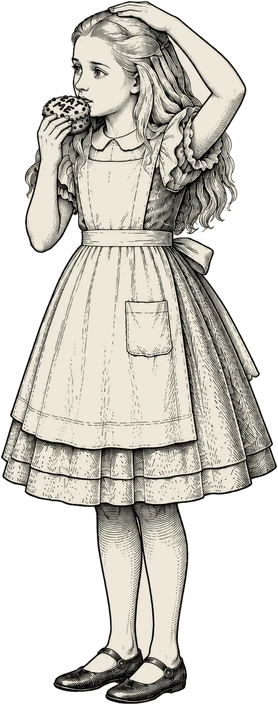
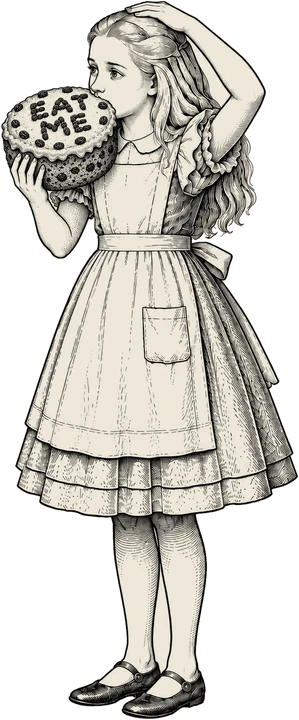
Chapter I: Alice keeps her falling pose with the jar in her hand; new eating pose (EAT ME the right way round); smaller glass box and cake to match; prompts for the shaft side walls, the hall wall and the passage wall
Claude-Session: https://claude.ai/code/session_01XCrTmcLSNBEvemRhk5i2MQ

diff --git a/src/scenes/hall.js b/src/scenes/hall.js
@@ -35,11 +35,11 @@ export const hall = {
     // The AI drawings (tools/small_props.py): the bottle, the open glass box with the cake in it.
     const flat = (name, w) => paperFlat(ai[name].tex, w, w / ai[name].aspect);
     const bottle = flat('props/bottle', 0.13);
-    // "a little glass box"; Alice is ten inches high here. See-through, so no shadow card
-    // behind it (that showed as a second box).
-    const box = paperFlat(ai['props/box'].tex, 0.15, 0.15 / ai['props/box'].aspect, { edge: false });
-    // "a very small cake": near the size drawn in her hand in the eating pose (there already bitten).
-    const cake = paperFlat(ai['props/cake'].tex, 0.024, 0.024 / ai['props/cake'].aspect, { edge: false }); // no shadow card: it showed as a second cake
+    // "a little glass box", just big enough for the cake; Alice is ten inches high here.
+    // See-through, so no shadow cards behind it or the cake (they showed as second copies).
+    const BOX_W = 0.08, CAKE_W = 0.038; // the cake as drawn in her hand in the eating pose
+    const box = paperFlat(ai['props/box'].tex, BOX_W, BOX_W / ai['props/box'].aspect, { edge: false });
+    const cake = paperFlat(ai['props/cake'].tex, CAKE_W, CAKE_W / ai['props/cake'].aspect, { edge: false });
     group.add(bottle, box, cake);
 
     // "the simple rules their friends had taught them", and later the candle going out.
@@ -89,7 +89,8 @@ export const hall = {
       // "she found she could not possibly reach it": up on tiptoe under the table, before climbing a leg.
       const reaching = !s.moving && t >= T.forgotten + 6.5 && t < T.legs;
       const pose = reaching ? 'reach' : kneeling ? 'kneel' : crying ? 'cry' : eating && !s.moving ? 'eat' : holding ? 'hold' : 'stand';
-      return { ...s, pose, dir: kneeling ? 1 : s.dir, scale, y, moving: s.moving || (y > 0.01 && !crying) };
+      return { ...s, pose, dir: kneeling ? 1 : pose === 'eat' ? -1 : s.dir, scale, y, // eating: as drawn, so EAT ME reads the right way round
+        moving: s.moving || (y > 0.01 && !crying) };
     }
 
     const rest = (obj, x, y, z) => { obj.position.set(x, y, z); obj.rotation.set(0, 0, 0); };
@@ -113,7 +114,7 @@ export const hall = {
       box.visible = cake.visible = t >= T.box - 0.5;
       box.position.set(TABLE.x - 0.05, 0, TABLE.z + 0.25);
       if (t >= T.ate && t < T.finished) { carry(cake, cast.alice, { drop: 0.01 }); cake.visible = a.pose !== 'eat'; }
-      else rest(cake, TABLE.x - 0.09, 0.06, TABLE.z + 0.245); // on the box's glass floor (above its feet): just behind its card, seen through the glass
+      else rest(cake, TABLE.x - 0.058, 0.026, TABLE.z + 0.245); // on the box's glass floor (above its feet): just behind its card, seen through the glass
       if (t >= T.finished) cake.visible = false;
     }
 

diff --git a/src/scenes/shaft.js b/src/scenes/shaft.js
@@ -70,21 +70,22 @@ export const shaft = {
       const sway = Math.sin(t * 0.7) * 0.12;
       return {
         visible: t > T.dipped - 0.2, dir: 1,
-        // Floating down, arms up (drawn); standing while she holds the jar at her hand.
-        pose: t >= T.jar - 1 && t < T.putBack + 1 ? 'stand' : 'fall',
+        // Floating down, arms up (drawn) the whole way; the jar goes in her raised right hand.
+        pose: 'fall',
         x: Math.sin(t * 0.31) * 0.15, z: -1.0, // close to the wall, so the jar in her hand looks the size it did on the shelf
         y: lerp(5, 0.15, enter) + Math.sin(t * 0.9) * 0.05,
         tilt: sway,
       };
     }
 
-    function update(t) {
+    function update(t, cast) {
       // Walls scroll upward as she falls.
       strip.offset.y = offsetAtTake - (FALL * (t - T.jar)) / tileH;
       sideTex.offset.y = -(FALL * t) / (WALL_H / 3);
       // The jar: on a shelf rising toward her, in her hand, then put back on a shelf.
       // On its shelf, rising toward her; into her hand; then into a cupboard as she passes.
-      const held = { x: HAND.x, y: HAND.y + Math.sin(t * 0.9) * 0.05, z: HAND.z };
+      const held = cast.alice.handPoint(new THREE.Vector3());
+      held.y += J.h * px * 0.3; // her fingers round the lower part of the jar
       let p;
       if (t < T.jar) p = { ...SHELF, y: wallY(t, HAND.y, T.jar) };
       else if (t < T.putBack) {

diff --git a/src/main.js b/src/main.js
@@ -141,6 +141,7 @@ async function main() {
       walk_a: { ...posed.walk_a, hand: [0.04, 0.5] },
       walk_b: { ...posed.walk_b, hand: [0.03, 0.5] },
       jump: { ...posed.jump, hand: [0.03, 0.37] },
+      fall: { ...posed.fall, hand: [0.93, 0.34] },        // the marmalade jar, in her raised hand (Chapter I)
       hold: { ...posed.hold, hand: [0.05, 0.17] },        // the key or bottle held up (Chapter I)
       comfits: { ...posed.comfits, hand: [0.11, 0.45] },
       bow: { ...posed.bow, hand: [0.38, 0.51] },          // takes the thimble (Chapter III)

diff --git a/tools/compose_poses.py b/tools/compose_poses.py
@@ -61,8 +61,7 @@ DRAWN = {
     # The closer redo (cheek near the floor, peering): source/ai/alice_kneel.webp is the spare.
     "kneel": {"src": "source/ai/alice_kneel_v2.webp", "h": 390, "bodyX": None, "mirror": True},
     "cry": {"src": "source/ai/alice_cry.webp", "h": 485, "bodyX": None},
-    # Drawn fuller-skirted and more front-on than the standing Alice: matched by dress and height.
-    "eat": {"src": "source/ai/alice_eat.webp", "h": 705, "bodyX": None},
+    "eat": {"src": "source/ai/alice_eat_v2.webp", "h": 720, "bodyX": None},  # second version; alice_eat.webp is the spare
     "hold": {"src": "source/ai/alice_hold.webp", "h": 700, "bodyX": None},
     # Chapter III.
     "wet": {"src": "source/ai/alice3_wet.webp", "h": 700, "bodyX": None},

diff --git a/docs/ASSETS_MASTER.md b/docs/ASSETS_MASTER.md
@@ -1,7 +1,7 @@
 # Master Asset List
 Generated by `tools/assets_master.py` from the chapter lists. **Don't edit by hand**: change the chapter list in `docs/ART_PROMPTS.md` (and the reasons in `docs/CHAPTER_NN_ASSETS.md`), then run the script.
 
-**Progress:** 70 of 344 images received. A box is ticked when a file with that name is in `source/ai/`.
+**Progress:** 70 of 345 images received. A box is ticked when a file with that name is in `source/ai/`.
 
 ## How to use this document
 1. Use **one ChatGPT conversation** for everything, so the style and the characters stay the same.
@@ -52,8 +52,9 @@ Use the **same ChatGPT conversation** as the turnaround and the earlier pieces s
 
 ### Sets and props
 - [x] **14.** `leaf_heap.png`: "A low heap of sticks and dry leaves on a dark earth floor at the bottom of a deep well, seen from the front, about three times as wide as it is tall. White background around it." *(note 4)*
-- [ ] **15.** `passage_wall.png` (landscape, must tile left to right): "The earth wall of a long, dark underground passage, roots and stones in packed earth, dim light from the left. Fill the image edge to edge; the left and right edges must join seamlessly."
-- [ ] **16.** `hall_wall.png` (landscape, tiles left to right): "The long wall of a low Victorian hall: a row of tall, narrow, locked wooden doors with brass knobs, panelled wainscot between them. Front view, flat, edge to edge; the left and right edges must join seamlessly."
+- [ ] **15.** `passage_wall.png` (landscape, must tile left to right): "The side wall of a long, low underground passage just below a rabbit-hole: packed dark earth with roots, small stones and a few old timber props, a dry leaf or two caught at its foot. Seen straight on, flat, no floor or ceiling. Lit dimly from the left, deep cross-hatched shadow toward the top. Same engraving style as the rabbit-hole shaft wall. Fill the image edge to edge; the left and right edges must join seamlessly." *(Chapter I: the landing on the leaves and the long passage)*
+- [ ] **16.** `hall_wall.png` (landscape, tiles left to right): "The plain wall of a long, low Victorian hall, with NO doors: smooth plastered wall above a dark panelled wooden wainscot about knee height, a simple moulded skirting board at the foot, faint vertical engraved shading on the plaster. Seen straight on, flat, edge to edge, no floor or ceiling; the left and right edges must join seamlessly. (The game hangs its own arched wooden doors on this wall, so match their style: old wood, iron hinges.)" *(Chapters I, II, III, VII: behind the doors)*
+- [ ] **34.** `shaft_side_wall.png` (portrait, must tile top to bottom): "The side wall of a deep, round rabbit-hole seen straight on, as Alice falls past: packed earth with roots, embedded stones, a small shelf or a peg with a hanging map now and then, darker and plainer than the back wall. Lit from above, deep cross-hatched shadow. Same engraving style as the shaft wall with the ORANGE MARMALADE jar (attach `shaft_wall_a`). Fill the image edge to edge; the top and bottom edges must join seamlessly." *(Chapter I: the two side walls of the fall)*
 - [x] **17.** `hall_floor.png` (square, tiles both ways): "Flagstone floor seen from straight above, worn stone slabs, edge to edge, tiling seamlessly in both directions."
 - [x] **18.** `hall_lamp.png`: "A single Victorian lamp hanging from a chain, glass shade, lit. White background."
 - [x] **19.** `little_door.png`: "A tiny arched wooden door about fifteen inches high, set in a wall at floor level, closed, with a small keyhole. Front view, with a little of the wall around it."

diff --git a/docs/ART_PROMPTS.md b/docs/ART_PROMPTS.md
@@ -154,8 +154,9 @@ Use the **same ChatGPT conversation** as the turnaround and the earlier pieces s
 
 ### Sets and props
 14. `leaf_heap.png`: "A low heap of sticks and dry leaves on a dark earth floor at the bottom of a deep well, seen from the front, about three times as wide as it is tall. White background around it." *(note 4)*
-15. `passage_wall.png` (landscape, must tile left to right): "The earth wall of a long, dark underground passage, roots and stones in packed earth, dim light from the left. Fill the image edge to edge; the left and right edges must join seamlessly."
-16. `hall_wall.png` (landscape, tiles left to right): "The long wall of a low Victorian hall: a row of tall, narrow, locked wooden doors with brass knobs, panelled wainscot between them. Front view, flat, edge to edge; the left and right edges must join seamlessly."
+15. `passage_wall.png` (landscape, must tile left to right): "The side wall of a long, low underground passage just below a rabbit-hole: packed dark earth with roots, small stones and a few old timber props, a dry leaf or two caught at its foot. Seen straight on, flat, no floor or ceiling. Lit dimly from the left, deep cross-hatched shadow toward the top. Same engraving style as the rabbit-hole shaft wall. Fill the image edge to edge; the left and right edges must join seamlessly." *(Chapter I: the landing on the leaves and the long passage)*
+16. `hall_wall.png` (landscape, tiles left to right): "The plain wall of a long, low Victorian hall, with NO doors: smooth plastered wall above a dark panelled wooden wainscot about knee height, a simple moulded skirting board at the foot, faint vertical engraved shading on the plaster. Seen straight on, flat, edge to edge, no floor or ceiling; the left and right edges must join seamlessly. (The game hangs its own arched wooden doors on this wall, so match their style: old wood, iron hinges.)" *(Chapters I, II, III, VII: behind the doors)*
+34. `shaft_side_wall.png` (portrait, must tile top to bottom): "The side wall of a deep, round rabbit-hole seen straight on, as Alice falls past: packed earth with roots, embedded stones, a small shelf or a peg with a hanging map now and then, darker and plainer than the back wall. Lit from above, deep cross-hatched shadow. Same engraving style as the shaft wall with the ORANGE MARMALADE jar (attach `shaft_wall_a`). Fill the image edge to edge; the top and bottom edges must join seamlessly." *(Chapter I: the two side walls of the fall)*
 17. `hall_floor.png` (square, tiles both ways): "Flagstone floor seen from straight above, worn stone slabs, edge to edge, tiling seamlessly in both directions."
 18. `hall_lamp.png`: "A single Victorian lamp hanging from a chain, glass shade, lit. White background."
 19. `little_door.png`: "A tiny arched wooden door about fifteen inches high, set in a wall at floor level, closed, with a small keyhole. Front view, with a little of the wall around it."

diff --git a/PROVENANCE.md b/PROVENANCE.md
@@ -118,3 +118,4 @@ Every shipped asset is listed here with its source. AI-generated or AI-modified 
 | ai_alice3_wonder | `public/art/ai/poses/wonder.webp` | AI | Generated in the same conversation (docs/ASSETS_MASTER.md, Chapter III prompt 6); original in `source/ai/alice3_wonder.webp` | OpenAI ChatGPT (GPT-6 chat); OpenAI image generation, exact image model not disclosed; received 2026-10-11 | Whole image generated. Cut out, paper-tinted and scaled to the standing Alice with `tools/compose_poses.py` (via `tools/whitecut.py`). Used in Chapter III: "What a pity it wouldn't stay!" (Drawn looking up, one hand out, not looking down at the tail as asked; to be regenerated.) Mirrored. | 2026-10-12 | Owner (generated), Claude Code (processed) |
 | ai_rabbit_run_away | `public/art/ai/ch1/rabbit_run_away.webp` | AI | Generated in the same conversation (docs/ASSETS_MASTER.md, Chapter I prompt 11); original in `source/ai/rabbit_run_away.webp` | OpenAI ChatGPT (GPT-6 chat); OpenAI image generation, exact image model not disclosed; received 2026-10-12 | Whole image generated. Cut out and paper-tinted (`tools/ch1_art.py`). Used in Chapter I: the Rabbit hurrying away down the long passage. | 2026-10-12 | Owner (generated), Claude Code (processed) |
 | ai_alice_kneel_v2 | `public/art/ai/poses/kneel.webp` | AI | Second version of Chapter I prompt 4 (closer to the prompt); original in `source/ai/alice_kneel_v2.webp` | OpenAI ChatGPT (GPT-6 chat); OpenAI image generation, exact image model not disclosed; received 2026-10-12 | Whole image generated. Cut out, paper-tinted, mirrored and scaled to the standing Alice (`tools/compose_poses.py`). Replaces the first version (`source/ai/alice_kneel.webp`, kept as a spare) at the little door. | 2026-10-12 | Owner (generated), Claude Code (processed) |
+| ai_alice_eat_v2 | `public/art/ai/poses/eat.webp` | AI | Second version of Chapter I prompt 8; original in `source/ai/alice_eat_v2.webp` | OpenAI ChatGPT (GPT-6 chat); OpenAI image generation, exact image model not disclosed; received 2026-10-12 | Whole image generated. Cut out, paper-tinted and scaled to the standing Alice (`tools/compose_poses.py`); shown unmirrored so EAT ME reads correctly. Replaces the first version (`source/ai/alice_eat.webp`, kept as a spare). | 2026-10-12 | Owner (generated), Claude Code (processed) |
